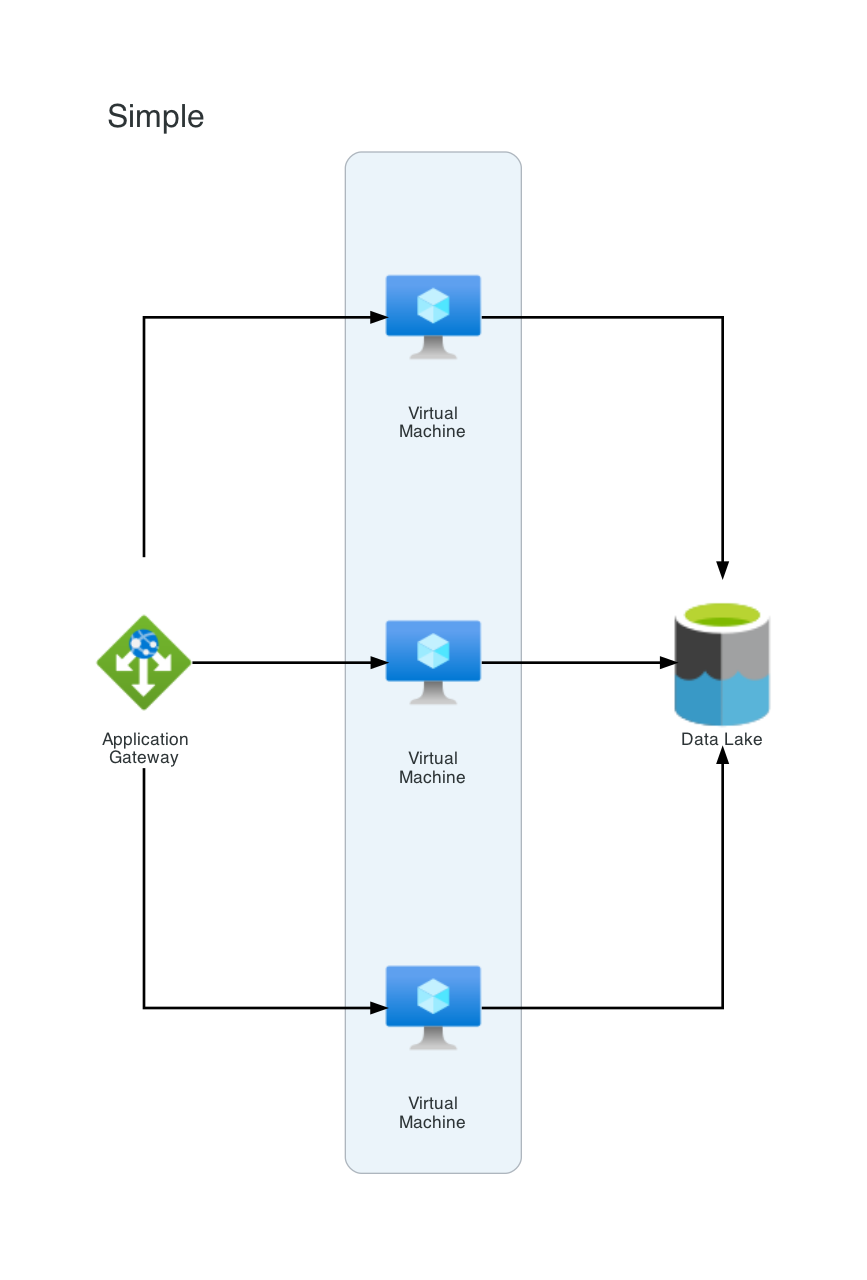
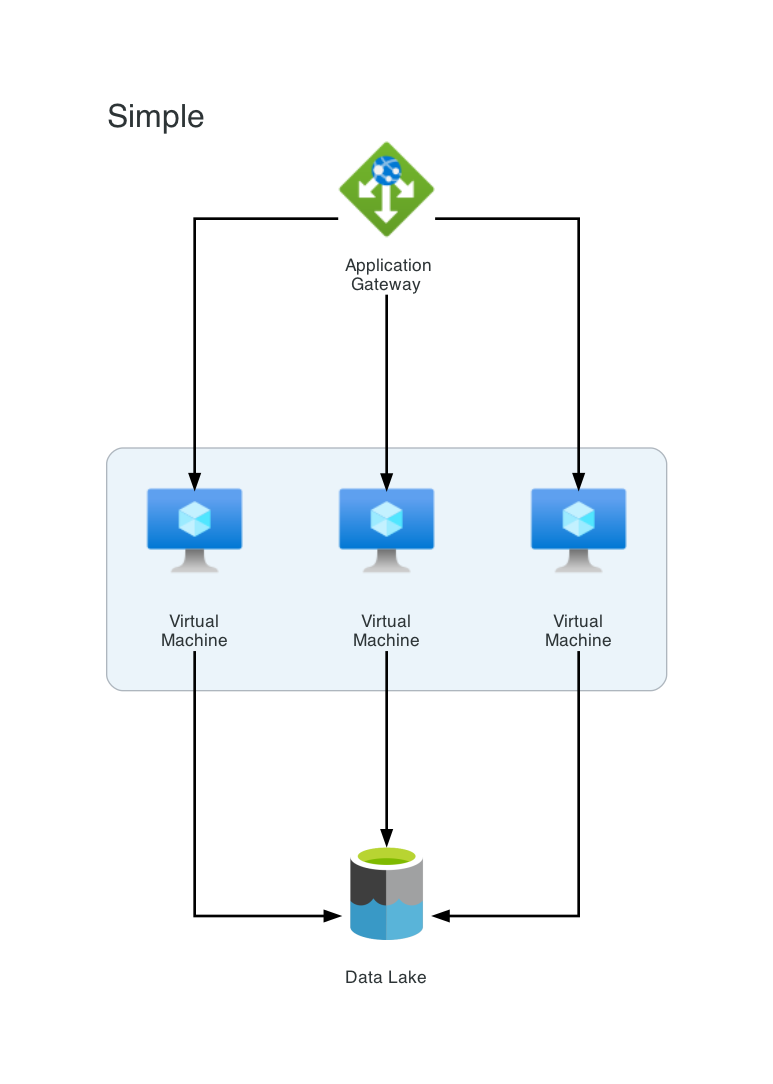
updated example

diff --git a/examples/simple.py b/examples/simple.py
@@ -7,7 +7,7 @@ from architectures.providers.azure.data import DataLake, SqlServer
 from architectures.providers.azure.compute import VirtualMachine
 from architectures.providers.azure.networking import ApplicationGateway
 
-theme = LightMode(hue="blue")
+theme = LightMode(graph_attr_overrides={"rankdir":"TB"}, hue="blue")
 
 with Graph("Simple", theme=theme):
     app_gateway = ApplicationGateway()
